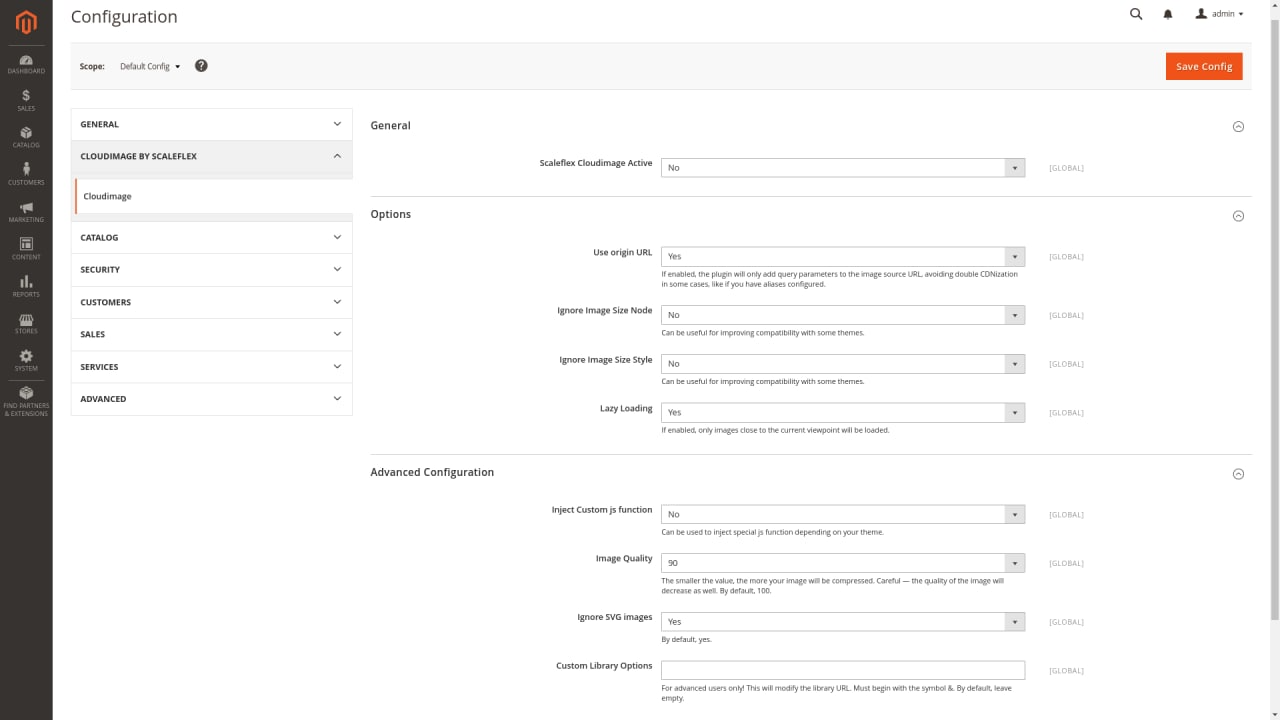
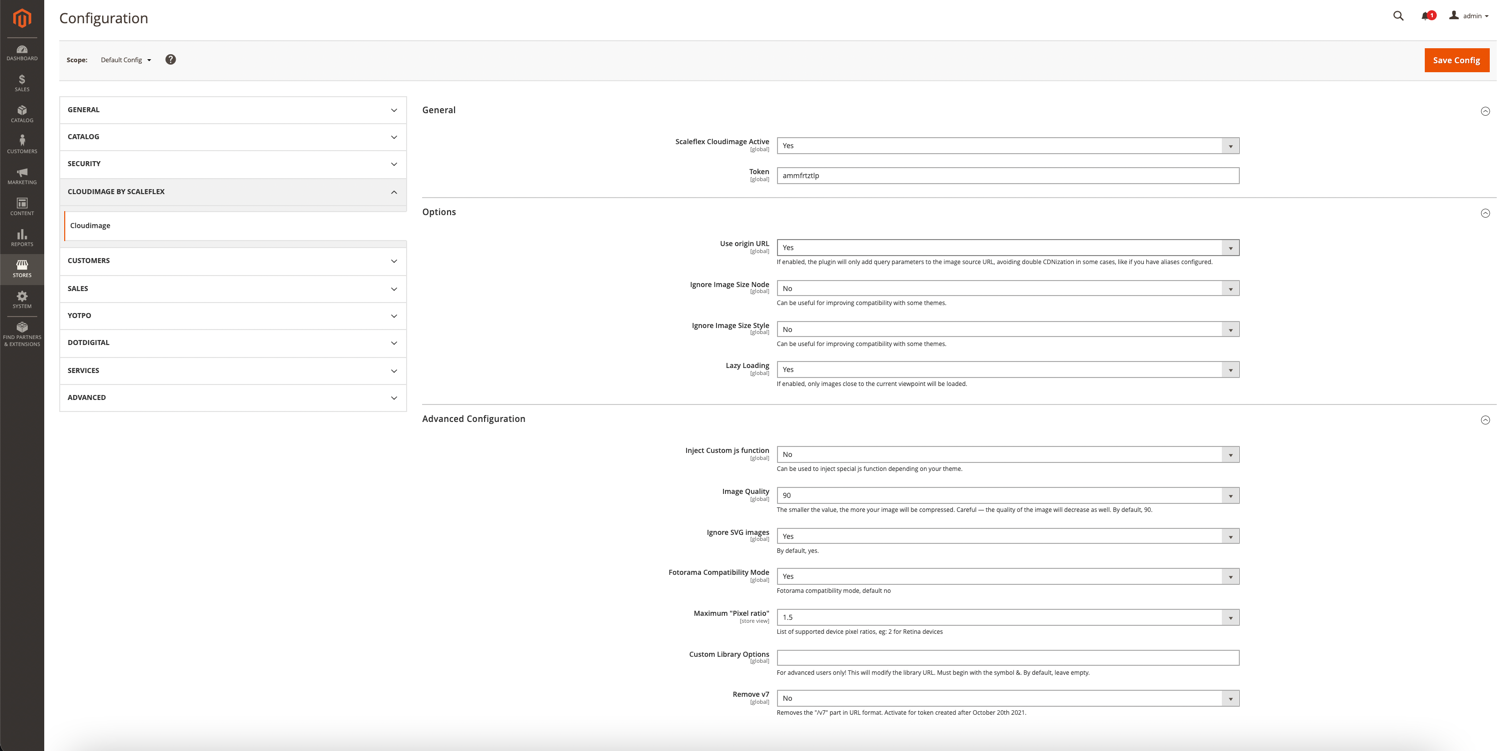
update changelog

diff --git a/README.md b/README.md
@@ -44,7 +44,8 @@ To be able to install the module by Composer, you need to get a copy of the modu
  
 
 ```shell
-composer config repositories.cloudimage vcs https://github.com/scaleflex/magento-cloudimage-responsive
+composer config repositories.cloudimage vcs https://github.co
+m/scaleflex/magento-cloudimage-responsive
 composer require scaleflex/module-cloudimage
 ```
 
@@ -87,19 +88,21 @@ Following options are available:
 
 This setting is for advanced users only and allows to inject a custom JS function into the Magento templates in order to support some specific Magento templates. Feel free to contact us in order to get the custom JS function to inject to address issues with your specific template.
 
-**Inject Custom JS function:** If enabled, you will be able to customize the JS function used dynamically to get the DOM information.
+**Inject Custom JS function**: If enabled, you will be able to customize the JS function used dynamically to get the DOM information.
 
-**Custom js function:** The js function to customize Cloudimage library.
+**Custom js function**: The js function to customize Cloudimage library.
 
-**(new) Image Quality**: Customizes the image quality, therefore compression -size- applied by default. (warning, a setting under 80 might have a potentially visible impact)
+**Image Quality**: Customizes the image quality, therefore compression -size- applied by default. (warning, a setting under 80 might have a potentially visible impact)
 
-**(new) Ignore SVG images**: If enabled, all SVG images will be skipped from acceleration as anyway vector images will not be compressed.
+**Ignore SVG images**: If enabled, all SVG images will be skipped from acceleration as anyway vector images will not be compressed.
+
+**(new) Fotorama Compatibility Mode**: Fotorama compatibility mode, default no
 
 **(new) Maximum "Pixel ratio"**: List of supported device pixel ratios, default is 2, eg: 2 for Retina devices
 
-**(new) Custom Library Options**: Those optional parameters will be added to the request for each URL going through the Cloudimage acceleration infrastructure. It can allow you to force image formats, apply automatic transformations or watermarking, and might be used for troubleshooting purposes. (for advanced users only, please refer to the official [Cloudimage documentation here](https://docs/cloudimage.io) for the list of possible parameters)
+**Custom Library Options**: Those optional parameters will be added to the request for each URL going through the Cloudimage acceleration infrastructure. It can allow you to force image formats, apply automatic transformations or watermarking, and might be used for troubleshooting purposes. (for advanced users only, please refer to the official [Cloudimage documentation here](https://docs/cloudimage.io) for the list of possible parameters)
 
-**(new) Remove v7**: Removes the "/v7" part in URL format. Activate for token created after October 20th 2021.
+**Remove v7**: Removes the "/v7" part in URL format. Activate for token created after October 20th 2021.
 
 
 ## 2. Integration "on-the-fly" in Magento templates

diff --git a/CHANGELOG.md b/CHANGELOG.md
@@ -4,7 +4,7 @@ All notable changes to this project will be documented in this file.
 
 ## [2.0.2] - 2022-04-08
 
-* Fotorama Compatibility Mode
+* Add Fotorama Compatibility Mode option
 * Add Device Pixel Max Ratio option
 
 ## [2.0.1] - 2022-02-01
